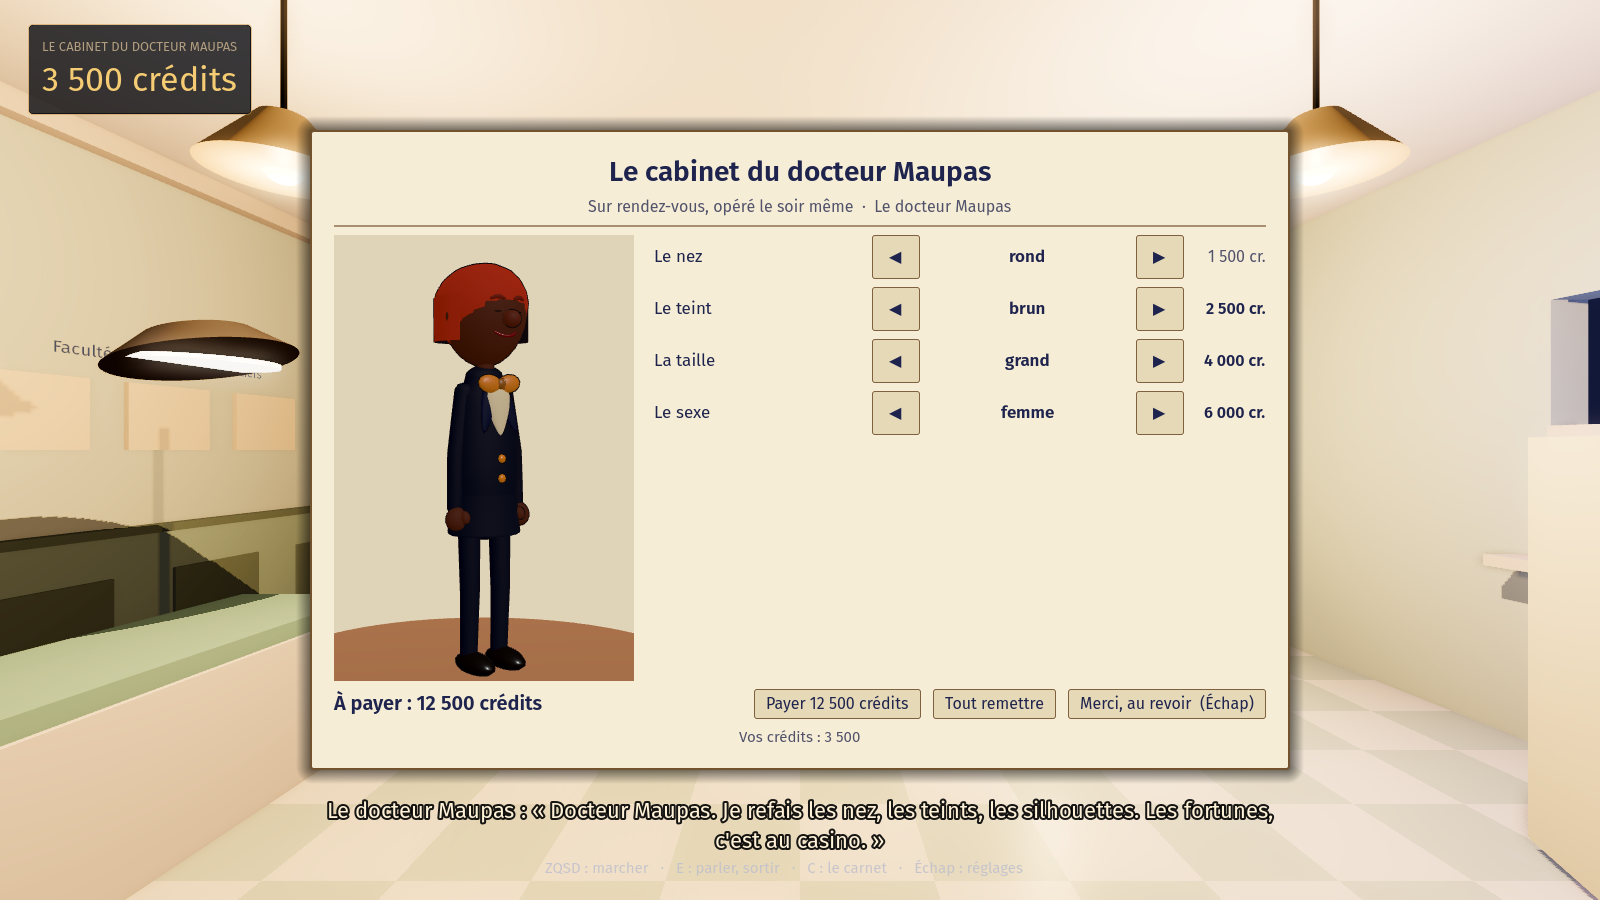
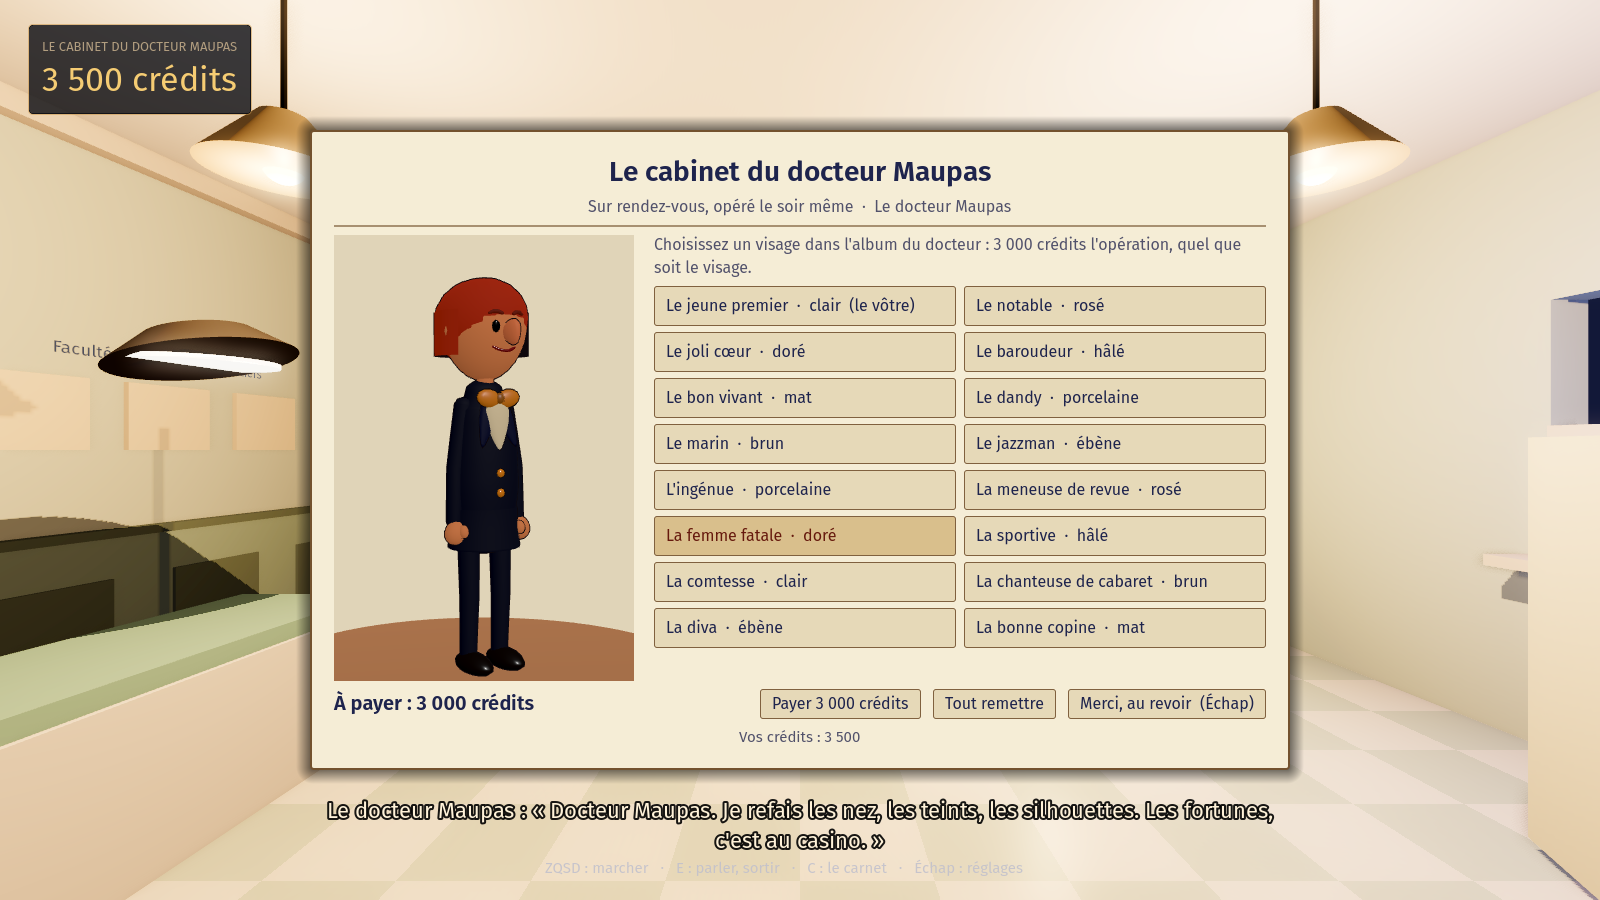
Le chirurgien : un album de seize visages au lieu des traits un par un (#191)
Chez le docteur Maupas, on choisit un visage tout fait (sexe, teint et nez ensemble) dans une liste de
seize, huit d'homme et huit de femme, pour 3 000 crédits l'opération. La taille n'est plus proposée.

Claude-Session: https://claude.ai/code/session_01C7M2LdXCrsEMqRrhvGvJPm

diff --git a/docs/AVATAR.md b/docs/AVATAR.md
@@ -10,7 +10,7 @@ Le joueur se fait retoucher en ville, et chaque retouche se paie. La tenue reste
 | Gisèle Coiffure | la façade rose de la place | aucun | coupe, couleur des cheveux, moustache ou barbe |
 | La Pizzeria du Clain, chez Tonio | côté sud de la place | aucun | on prend des crans de corpulence |
 | Smarves Forme, chez Jojo | l'ancien local vacant de la route du Bois | 1 000 gagnés | on en perd |
-| Le cabinet du docteur Maupas | au-dessus de la pharmacie, route du Bois | 3 000 gagnés | sexe, teint, nez, taille |
+| Le cabinet du docteur Maupas | au-dessus de la pharmacie, route du Bois | 3 000 gagnés | un autre visage, choisi dans son album |
 
 Tout commerce de tenues d'une commune (structure `commerce`, genre `tenue`) a la même cabine d'essayage dans sa vitrine, sans rien déclarer.
 
@@ -20,7 +20,7 @@ On essaie gratuitement : l'aperçu montre le joueur tel qu'il sortira, et l'on n
 
 - **Couture** : couleur du haut 80, couleur du bas 60, chapeau 120, col 60, lunettes 90, coupe du haut (veste, gilet, pull, chemise, marinière, smoking, robe) 250, bas (pantalon ou jupe) 150.
 - **Coiffure** : coupe 60, couleur 90, moustache ou barbe 40.
-- **Chirurgie** : nez 1 500, teint 2 500, taille 4 000, sexe 6 000.
+- **Chirurgie** : 3 000 l'opération, quel que soit le visage choisi.
 - **Salle de sport** : la séance d'haltères 200 (un cran de moins), la semaine de stage 500 (deux), le coach particulier 1 200 (trois).
 - **Restaurant** : la pizza du jour 40 (un cran de plus), le menu complet 110 (deux), le festin du samedi 260 (trois).
 
@@ -28,7 +28,8 @@ Perdre coûte plus cher que prendre, comme dans la vie. La corpulence a huit cra
 
 ## Ce qu'on choisit
 
-- **Le corps** : homme ou femme (une femme a du rouge aux lèvres et pas de moustache, et garde la tenue qu'elle a achetée : Raymonde lui fait une robe ou une jupe si elle veut), huit teints, cinq nez, trois tailles, huit crans de corpulence.
+- **Le visage** : on ne règle pas les traits un par un, on choisit dans l'album du docteur Maupas un des seize visages tout faits, huit d'homme et huit de femme, qui fixent le sexe, le teint et le nez (le jeune premier, le baroudeur, le jazzman, la femme fatale, la comtesse, la diva…). Une femme a du rouge aux lèvres et pas de moustache, et garde la tenue qu'elle a achetée : Raymonde lui fait une robe ou une jupe si elle veut.
+- **Le corps** : huit crans de corpulence.
 - **La tête** : douze coupes, onze couleurs, cinq façons de porter la moustache.
 - **Les vêtements** : sept coupes de haut, pantalon ou jupe, quatorze couleurs de tissu, huit chapeaux, cinq cols, quatre paires de lunettes. Chaque réglage peut rester « comme la tenue ». Les retouches du haut et du bas tombent quand on change de tenue ; le chapeau, le col et les lunettes restent.
 
